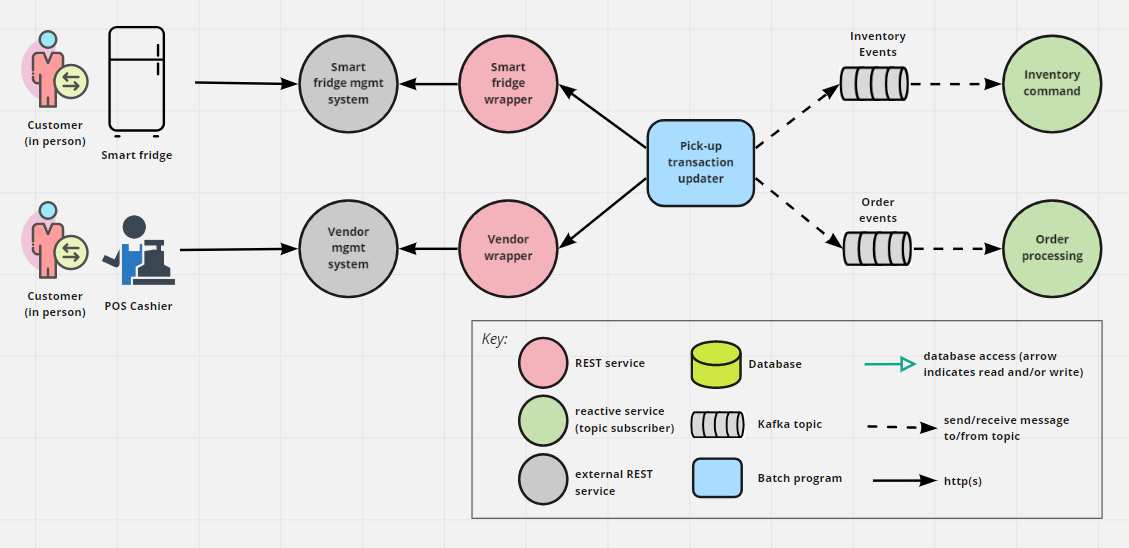
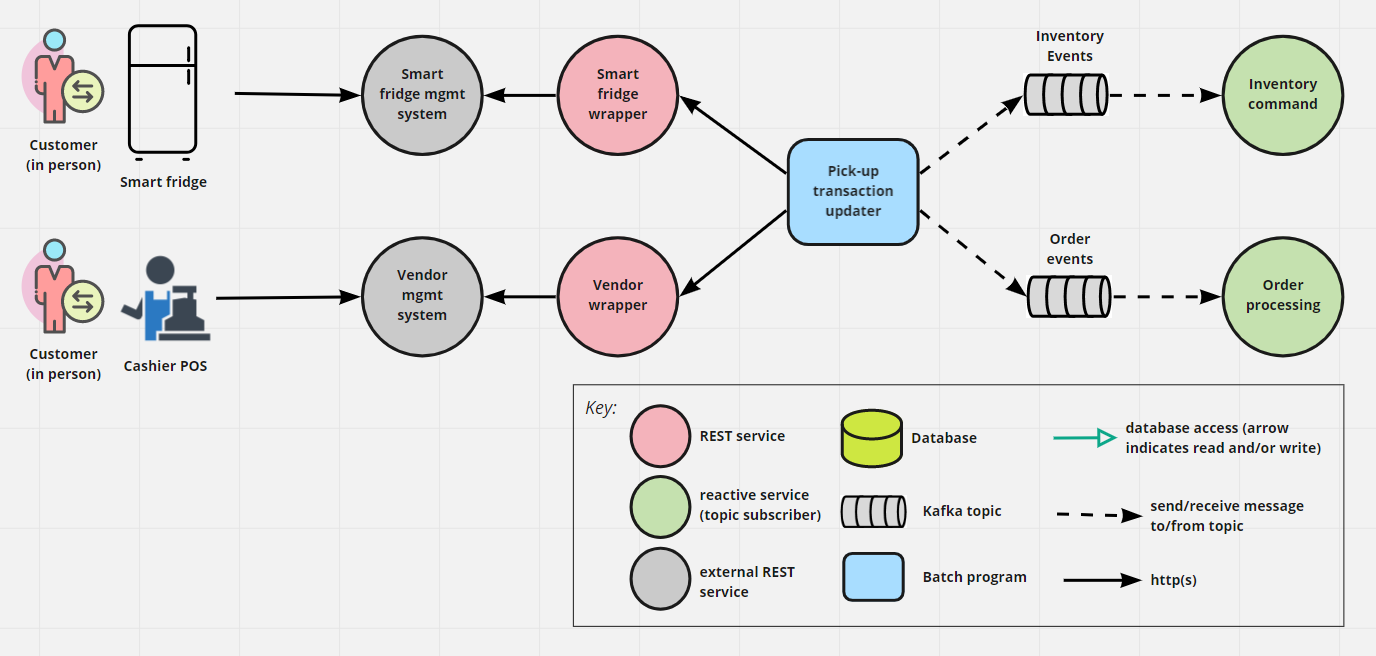
customer-pickup: update img; fix typos; minor readability improvement

diff --git a/architecture/customer-pickup-microservice-view.md b/architecture/customer-pickup-microservice-view.md
@@ -16,7 +16,7 @@ This is a microservice architecture. Key patterns used:
 ## Element Catalog 
 
 #### Customer, Smart Fridge, Cashier POS
-- The actual customer (in person), Smart Fridge and ashier POS.
+- The actual customer (in person), Smart Fridge and cashier POS.
 
 #### Smart fridge management system, Vendor management system
 - Systems that provide APIs for querying and managing the state of the smart fridges
@@ -29,15 +29,15 @@ and vendor management systems.
  the specifics of each third-party system.
 
 #### Pick-up transaction updater
-- A batch program that queries the Smart Fridge and Vendor management systems for updates and
-posts them on the Inventory and Order topics for later handling by the `Inventory command` and
+- A batch program that queries the Smart Fridge and Vendor management systems for updates. Changes are
+posted to the Inventory and Order topics for later handling by the `Inventory command` and
 `Order processing` services.
 
 #### Inventory Command
-- Reactive service (topic susbscriber) that handles commands updating the inventory.
+- Reactive service (topic subscriber) that handles commands updating the inventory.
 
 #### Order processing 
-- Reactive service (topic susbscriber) responsible for processing events about orders.
+- Reactive service (topic subscriber) responsible for processing events about orders.
 
 
 ## Behavior
